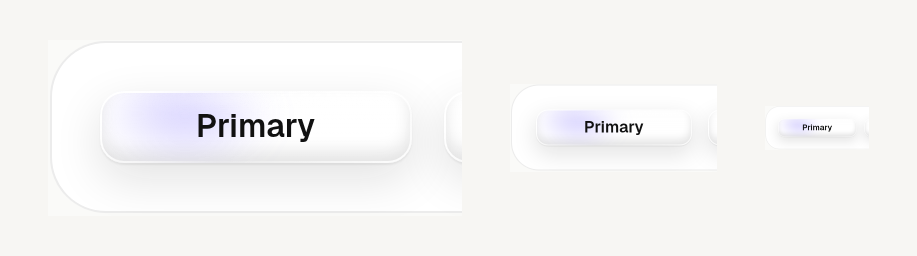
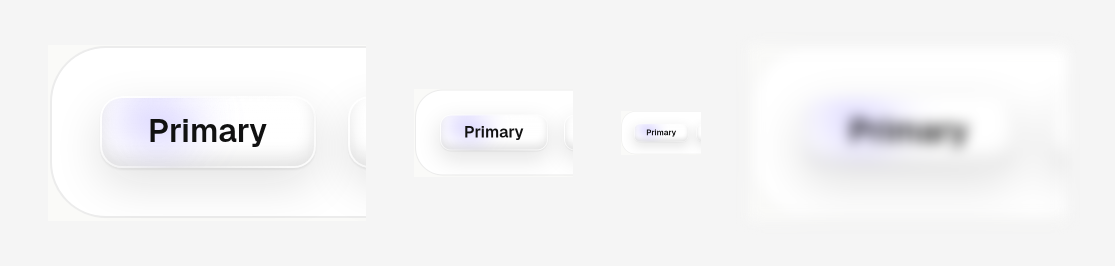
fix(button): compact, content-driven Micro geometry (density, not ratio)
Owner recalibration: stop targeting an aspect ratio. Restrain the horizontal
padding so the glass hugs the label (width dictated by content, no empty
"wings"), keeping a solid height so the visual weight concentrates in the centre
— a dense, compact machined piece. Short "OK" and long "Start your journey"
stay the same family (same height/padding/radius). Geometry only:
h-[30/36/44px], px-4/5/6, rounded-[9/11/13px]. Material/optics/glass.css
untouched. Silhouette (blurred) still reads as a button.

Claude-Session: https://claude.ai/code/session_01JSKxADquWPscGGWu93W5g6

diff --git a/src/components/ui/button.tsx b/src/components/ui/button.tsx
@@ -30,16 +30,19 @@ export const buttonVariants = cva(
         outline: 'text-text',
         destructive: 'text-text-on-accent',
       },
-      // The single Micro Surface geometry: a premium, tactile action button
-      // (Apple / Linear / Stripe). Enough vertical mass to read as a moulded
-      // glass PIECE (never a thin strip), a balanced ~2.5–3.5:1 ratio so the
-      // visual weight sits in the centre (stable, not stretched), and corners
-      // generously rounded at ~⅓ of the height — clearly a softened rectangle,
-      // never a semicircle / pill / capsule. Material/optics are unchanged.
+      // The single Micro Surface geometry: a COMPACT, dense action piece
+      // (Apple / Linear / Stripe). There is NO target aspect ratio — the width
+      // is dictated only by the content. The horizontal padding is restrained
+      // (close to the vertical rhythm) so the glass hugs the label instead of
+      // extending into empty "wings"; combined with a solid height, the visual
+      // weight concentrates in the centre (dense, stable, never stretched).
+      // Corners rounded at ~⅓ of the height — a machined rectangle, never a
+      // pill. A short "OK" and a long "Start your journey" stay the same family
+      // (same height, padding, radius). Material/optics are unchanged.
       size: {
-        sm: 'h-[32px] px-6 text-body-sm rounded-[10px]',
-        md: 'h-[36px] px-8 text-body rounded-[12px]',
-        lg: 'h-[44px] px-10 text-body-lg rounded-[14px]',
+        sm: 'h-[30px] px-4 text-body-sm rounded-[9px]',
+        md: 'h-[36px] px-5 text-body rounded-[11px]',
+        lg: 'h-[44px] px-6 text-body-lg rounded-[13px]',
       },
     },
     defaultVariants: { variant: 'primary', size: 'md' },
